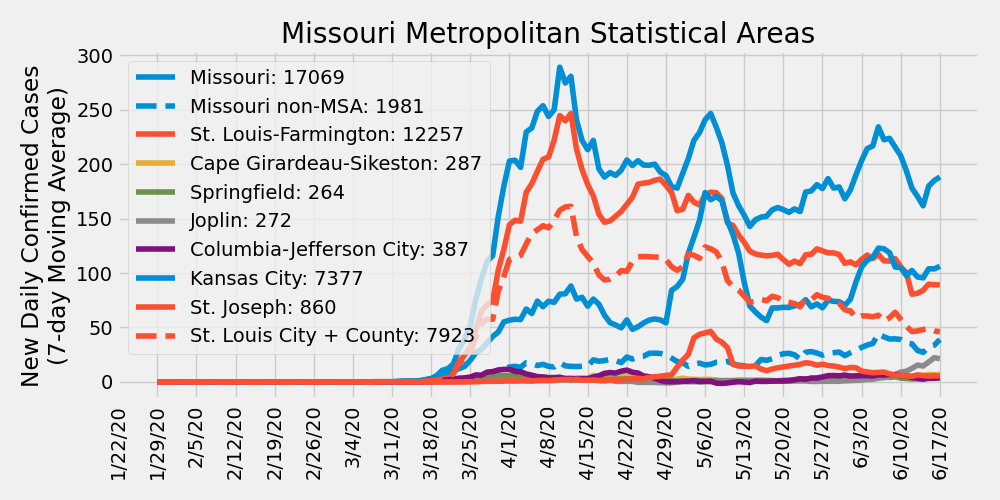
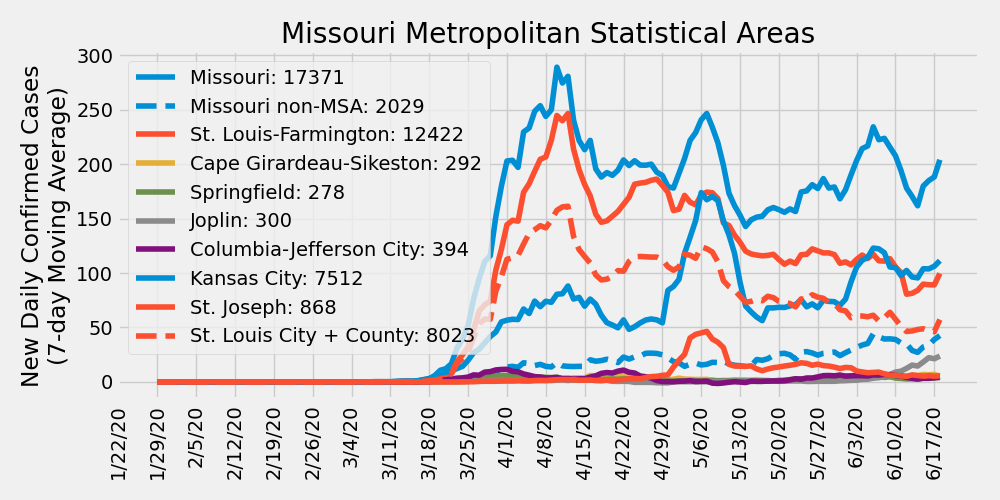
update 6/19/2020

diff --git a/ajvogt-analysis/missouri_analysis.md b/ajvogt-analysis/missouri_analysis.md
@@ -1,6 +1,6 @@
 # COVID-19 Missouri Statistics & Regional Breakdowns
 Author: Adam J. Vogt  
-Updated: 06/18/2020  
+Updated: 06/19/2020  
 Source: [COVID-19 Data Repository by the Center for Systems Science and Engineering (CSSE) at Johns Hopkins University](https://github.com/CSSEGISandData/COVID-19)  
 Source Code: `/ajvogt-analysis/mo_analysis_script.py`
 
@@ -15,129 +15,129 @@ Legend shows cumulative confirmed cases
 ## Metropolitan Statistical Area (MSA) Counties
 | MSA | State | County | Total Cases | Total Deaths |
 |-----|-------|--------|---|---|
-| St. Louis-Farmington | Missouri | Lincoln | 90 | 1 |
+| St. Louis-Farmington | Missouri | Lincoln | 91 | 1 |
 | St. Louis-Farmington | Missouri | Warren | 32 | 0 |
-| St. Louis-Farmington | Missouri | Franklin | 173 | 18 |
-| St. Louis-Farmington | Missouri | Jefferson | 388 | 19 |
-| St. Louis-Farmington | Missouri | St. Charles | 926 | 64 |
-| St. Louis-Farmington | Missouri | St. Louis | 5669 | 516 |
-| St. Louis-Farmington | Missouri | St. Louis City | 2254 | 142 |
-| St. Louis-Farmington | Missouri | St. Francois | 43 | 2 |
-| St. Louis-Farmington | Illinois | Monroe | 109 | 12 |
-| St. Louis-Farmington | Illinois | St. Clair | 1520 | 122 |
-| St. Louis-Farmington | Illinois | Madison | 750 | 66 |
-| St. Louis-Farmington | Illinois | Macoupin | 45 | 3 |
+| St. Louis-Farmington | Missouri | Franklin | 178 | 18 |
+| St. Louis-Farmington | Missouri | Jefferson | 389 | 19 |
+| St. Louis-Farmington | Missouri | St. Charles | 933 | 68 |
+| St. Louis-Farmington | Missouri | St. Louis | 5731 | 544 |
+| St. Louis-Farmington | Missouri | St. Louis City | 2292 | 144 |
+| St. Louis-Farmington | Missouri | St. Francois | 49 | 2 |
+| St. Louis-Farmington | Illinois | Monroe | 110 | 12 |
+| St. Louis-Farmington | Illinois | St. Clair | 1538 | 123 |
+| St. Louis-Farmington | Illinois | Madison | 771 | 66 |
+| St. Louis-Farmington | Illinois | Macoupin | 46 | 3 |
 | St. Louis-Farmington | Illinois | Jersey | 29 | 1 |
-| St. Louis-Farmington | Illinois | Clinton | 216 | 17 |
+| St. Louis-Farmington | Illinois | Clinton | 220 | 17 |
 | St. Louis-Farmington | Illinois | Calhoun | 1 | 0 |
 | St. Louis-Farmington | Illinois | Bond | 12 | 1 |
-| Cape Girardeau-Sikeston | Missouri | Cape Girardeau | 111 | 3 |
-| Cape Girardeau-Sikeston | Missouri | Bollinger | 10 | 0 |
-| Cape Girardeau-Sikeston | Illinois | Alexander | 17 | 0 |
+| Cape Girardeau-Sikeston | Missouri | Cape Girardeau | 114 | 3 |
+| Cape Girardeau-Sikeston | Missouri | Bollinger | 11 | 0 |
+| Cape Girardeau-Sikeston | Illinois | Alexander | 18 | 0 |
 | Cape Girardeau-Sikeston | Missouri | Scott | 149 | 10 |
-| Springfield | Missouri | Greene | 199 | 9 |
-| Springfield | Missouri | Christian | 30 | 0 |
+| Springfield | Missouri | Greene | 210 | 8 |
+| Springfield | Missouri | Christian | 31 | 0 |
 | Springfield | Missouri | Webster | 19 | 0 |
-| Springfield | Missouri | Polk | 10 | 0 |
-| Springfield | Missouri | Dallas | 6 | 0 |
-| Joplin | Missouri | Jasper | 184 | 0 |
-| Joplin | Missouri | Newton | 88 | 2 |
+| Springfield | Missouri | Polk | 11 | 0 |
+| Springfield | Missouri | Dallas | 7 | 0 |
+| Joplin | Missouri | Jasper | 192 | 0 |
+| Joplin | Missouri | Newton | 108 | 2 |
 | Columbia-Jefferson City | Missouri | Howard | 3 | 0 |
-| Columbia-Jefferson City | Missouri | Boone | 222 | 2 |
-| Columbia-Jefferson City | Missouri | Cooper | 11 | 0 |
+| Columbia-Jefferson City | Missouri | Boone | 226 | 2 |
+| Columbia-Jefferson City | Missouri | Cooper | 12 | 0 |
 | Columbia-Jefferson City | Missouri | Moniteau | 49 | 1 |
 | Columbia-Jefferson City | Missouri | Cole | 57 | 1 |
-| Columbia-Jefferson City | Missouri | Callaway | 40 | 1 |
+| Columbia-Jefferson City | Missouri | Callaway | 42 | 1 |
 | Columbia-Jefferson City | Missouri | Osage | 5 | 0 |
-| Kansas City | Missouri | Kansas City | 1802 | 30 |
-| Kansas City | Missouri | Jackson | 916 | 22 |
-| Kansas City | Missouri | Clay | 301 | 3 |
-| Kansas City | Missouri | Cass | 109 | 8 |
-| Kansas City | Missouri | Platte | 99 | 3 |
+| Kansas City | Missouri | Kansas City | 1831 | 30 |
+| Kansas City | Missouri | Jackson | 933 | 22 |
+| Kansas City | Missouri | Clay | 319 | 3 |
+| Kansas City | Missouri | Cass | 110 | 8 |
+| Kansas City | Missouri | Platte | 101 | 4 |
 | Kansas City | Missouri | Lafayette | 86 | 2 |
 | Kansas City | Missouri | Ray | 25 | 0 |
-| Kansas City | Missouri | Clinton | 21 | 0 |
+| Kansas City | Missouri | Clinton | 23 | 0 |
 | Kansas City | Missouri | Bates | 12 | 1 |
 | Kansas City | Missouri | Caldwell | 8 | 0 |
-| Kansas City | Kansas | Johnson | 1107 | 73 |
-| Kansas City | Kansas | Wyandotte | 1745 | 76 |
-| Kansas City | Kansas | Leavenworth | 1118 | 7 |
+| Kansas City | Kansas | Johnson | 1150 | 76 |
+| Kansas City | Kansas | Wyandotte | 1766 | 77 |
+| Kansas City | Kansas | Leavenworth | 1120 | 7 |
 | Kansas City | Kansas | Miami | 16 | 0 |
 | Kansas City | Kansas | Linn | 12 | 0 |
-| St. Joseph | Missouri | Andrew | 35 | 0 |
-| St. Joseph | Missouri | Buchanan | 793 | 3 |
+| St. Joseph | Missouri | Andrew | 36 | 0 |
+| St. Joseph | Missouri | Buchanan | 800 | 3 |
 | St. Joseph | Missouri | DeKalb | 9 | 0 |
 | St. Joseph | Kansas | Doniphan | 23 | 0 |
 | Missouri non-MSA | Missouri | Adair |  85 | 0 |
 | Missouri non-MSA | Missouri | Atchison |  3 | 0 |
-| Missouri non-MSA | Missouri | Audrain |  122 | 1 |
-| Missouri non-MSA | Missouri | Barry |  20 | 0 |
-| Missouri non-MSA | Missouri | Barton |  11 | 0 |
+| Missouri non-MSA | Missouri | Audrain |  123 | 1 |
+| Missouri non-MSA | Missouri | Barry |  25 | 0 |
+| Missouri non-MSA | Missouri | Barton |  10 | 0 |
 | Missouri non-MSA | Missouri | Benton |  14 | 0 |
-| Missouri non-MSA | Missouri | Butler |  53 | 0 |
+| Missouri non-MSA | Missouri | Butler |  58 | 0 |
 | Missouri non-MSA | Missouri | Camden |  45 | 1 |
 | Missouri non-MSA | Missouri | Carroll |  11 | 0 |
 | Missouri non-MSA | Missouri | Carter |  5 | 1 |
 | Missouri non-MSA | Missouri | Cedar |  9 | 0 |
 | Missouri non-MSA | Missouri | Chariton |  6 | 0 |
 | Missouri non-MSA | Missouri | Clark |  1 | 0 |
-| Missouri non-MSA | Missouri | Crawford |  9 | 0 |
+| Missouri non-MSA | Missouri | Crawford |  10 | 0 |
 | Missouri non-MSA | Missouri | Dade |  1 | 0 |
 | Missouri non-MSA | Missouri | Daviess |  7 | 0 |
 | Missouri non-MSA | Missouri | Dent |  1 | 0 |
 | Missouri non-MSA | Missouri | Douglas |  3 | 0 |
-| Missouri non-MSA | Missouri | Dunklin |  64 | 3 |
+| Missouri non-MSA | Missouri | Dunklin |  65 | 3 |
 | Missouri non-MSA | Missouri | Gasconade |  2 | 0 |
-| Missouri non-MSA | Missouri | Gentry |  54 | 8 |
-| Missouri non-MSA | Missouri | Grundy |  11 | 0 |
+| Missouri non-MSA | Missouri | Gentry |  54 | 9 |
+| Missouri non-MSA | Missouri | Grundy |  12 | 0 |
 | Missouri non-MSA | Missouri | Harrison |  9 | 0 |
-| Missouri non-MSA | Missouri | Henry |  18 | 3 |
+| Missouri non-MSA | Missouri | Henry |  17 | 3 |
 | Missouri non-MSA | Missouri | Hickory |  0 | 0 |
 | Missouri non-MSA | Missouri | Holt |  1 | 0 |
-| Missouri non-MSA | Missouri | Howell |  28 | 0 |
+| Missouri non-MSA | Missouri | Howell |  29 | 0 |
 | Missouri non-MSA | Missouri | Iron |  2 | 0 |
 | Missouri non-MSA | Missouri | Knox |  2 | 0 |
-| Missouri non-MSA | Missouri | Laclede |  10 | 0 |
-| Missouri non-MSA | Missouri | Lawrence |  8 | 0 |
+| Missouri non-MSA | Missouri | Laclede |  12 | 0 |
+| Missouri non-MSA | Missouri | Lawrence |  10 | 0 |
 | Missouri non-MSA | Missouri | Lewis |  7 | 1 |
 | Missouri non-MSA | Missouri | Livingston |  6 | 0 |
-| Missouri non-MSA | Missouri | McDonald |  116 | 0 |
+| Missouri non-MSA | Missouri | McDonald |  124 | 0 |
 | Missouri non-MSA | Missouri | Macon |  7 | 0 |
 | Missouri non-MSA | Missouri | Maries |  2 | 0 |
 | Missouri non-MSA | Missouri | Marion |  9 | 0 |
 | Missouri non-MSA | Missouri | Mercer |  5 | 0 |
-| Missouri non-MSA | Missouri | Miller |  7 | 0 |
-| Missouri non-MSA | Missouri | Mississippi |  75 | 0 |
+| Missouri non-MSA | Missouri | Miller |  8 | 0 |
+| Missouri non-MSA | Missouri | Mississippi |  77 | 0 |
 | Missouri non-MSA | Missouri | Montgomery |  12 | 0 |
-| Missouri non-MSA | Missouri | Morgan |  11 | 0 |
+| Missouri non-MSA | Missouri | Morgan |  12 | 0 |
 | Missouri non-MSA | Missouri | New Madrid |  34 | 2 |
-| Missouri non-MSA | Missouri | Nodaway |  16 | 0 |
+| Missouri non-MSA | Missouri | Nodaway |  18 | 0 |
 | Missouri non-MSA | Missouri | Oregon |  6 | 0 |
 | Missouri non-MSA | Missouri | Ozark |  0 | 0 |
-| Missouri non-MSA | Missouri | Pemiscot |  104 | 6 |
+| Missouri non-MSA | Missouri | Pemiscot |  105 | 6 |
 | Missouri non-MSA | Missouri | Perry |  87 | 0 |
-| Missouri non-MSA | Missouri | Pettis |  89 | 1 |
+| Missouri non-MSA | Missouri | Pettis |  94 | 1 |
 | Missouri non-MSA | Missouri | Phelps |  7 | 0 |
 | Missouri non-MSA | Missouri | Pike |  31 | 1 |
 | Missouri non-MSA | Missouri | Pulaski |  106 | 1 |
 | Missouri non-MSA | Missouri | Putnam |  2 | 0 |
 | Missouri non-MSA | Missouri | Ralls |  5 | 0 |
-| Missouri non-MSA | Missouri | Randolph |  11 | 0 |
-| Missouri non-MSA | Missouri | Reynolds |  2 | 0 |
+| Missouri non-MSA | Missouri | Randolph |  12 | 0 |
+| Missouri non-MSA | Missouri | Reynolds |  3 | 0 |
 | Missouri non-MSA | Missouri | Ripley |  12 | 0 |
 | Missouri non-MSA | Missouri | Ste. Genevieve |  14 | 1 |
-| Missouri non-MSA | Missouri | Saline |  274 | 4 |
+| Missouri non-MSA | Missouri | Saline |  277 | 4 |
 | Missouri non-MSA | Missouri | Schuyler |  1 | 0 |
 | Missouri non-MSA | Missouri | Scotland |  8 | 1 |
 | Missouri non-MSA | Missouri | Shannon |  6 | 0 |
 | Missouri non-MSA | Missouri | Shelby |  1 | 0 |
-| Missouri non-MSA | Missouri | Stoddard |  124 | 7 |
-| Missouri non-MSA | Missouri | Stone |  7 | 0 |
+| Missouri non-MSA | Missouri | Stoddard |  126 | 7 |
+| Missouri non-MSA | Missouri | Stone |  8 | 0 |
 | Missouri non-MSA | Missouri | Sullivan |  91 | 0 |
-| Missouri non-MSA | Missouri | Taney |  27 | 2 |
+| Missouri non-MSA | Missouri | Taney |  29 | 2 |
 | Missouri non-MSA | Missouri | Texas |  1 | 0 |
 | Missouri non-MSA | Missouri | Vernon |  12 | 0 |
-| Missouri non-MSA | Missouri | Washington |  13 | 1 |
+| Missouri non-MSA | Missouri | Washington |  14 | 1 |
 | Missouri non-MSA | Missouri | Wayne |  0 | 0 |
 | Missouri non-MSA | Missouri | Worth |  4 | 0 |
 | Missouri non-MSA | Missouri | Wright |  14 | 0 |
